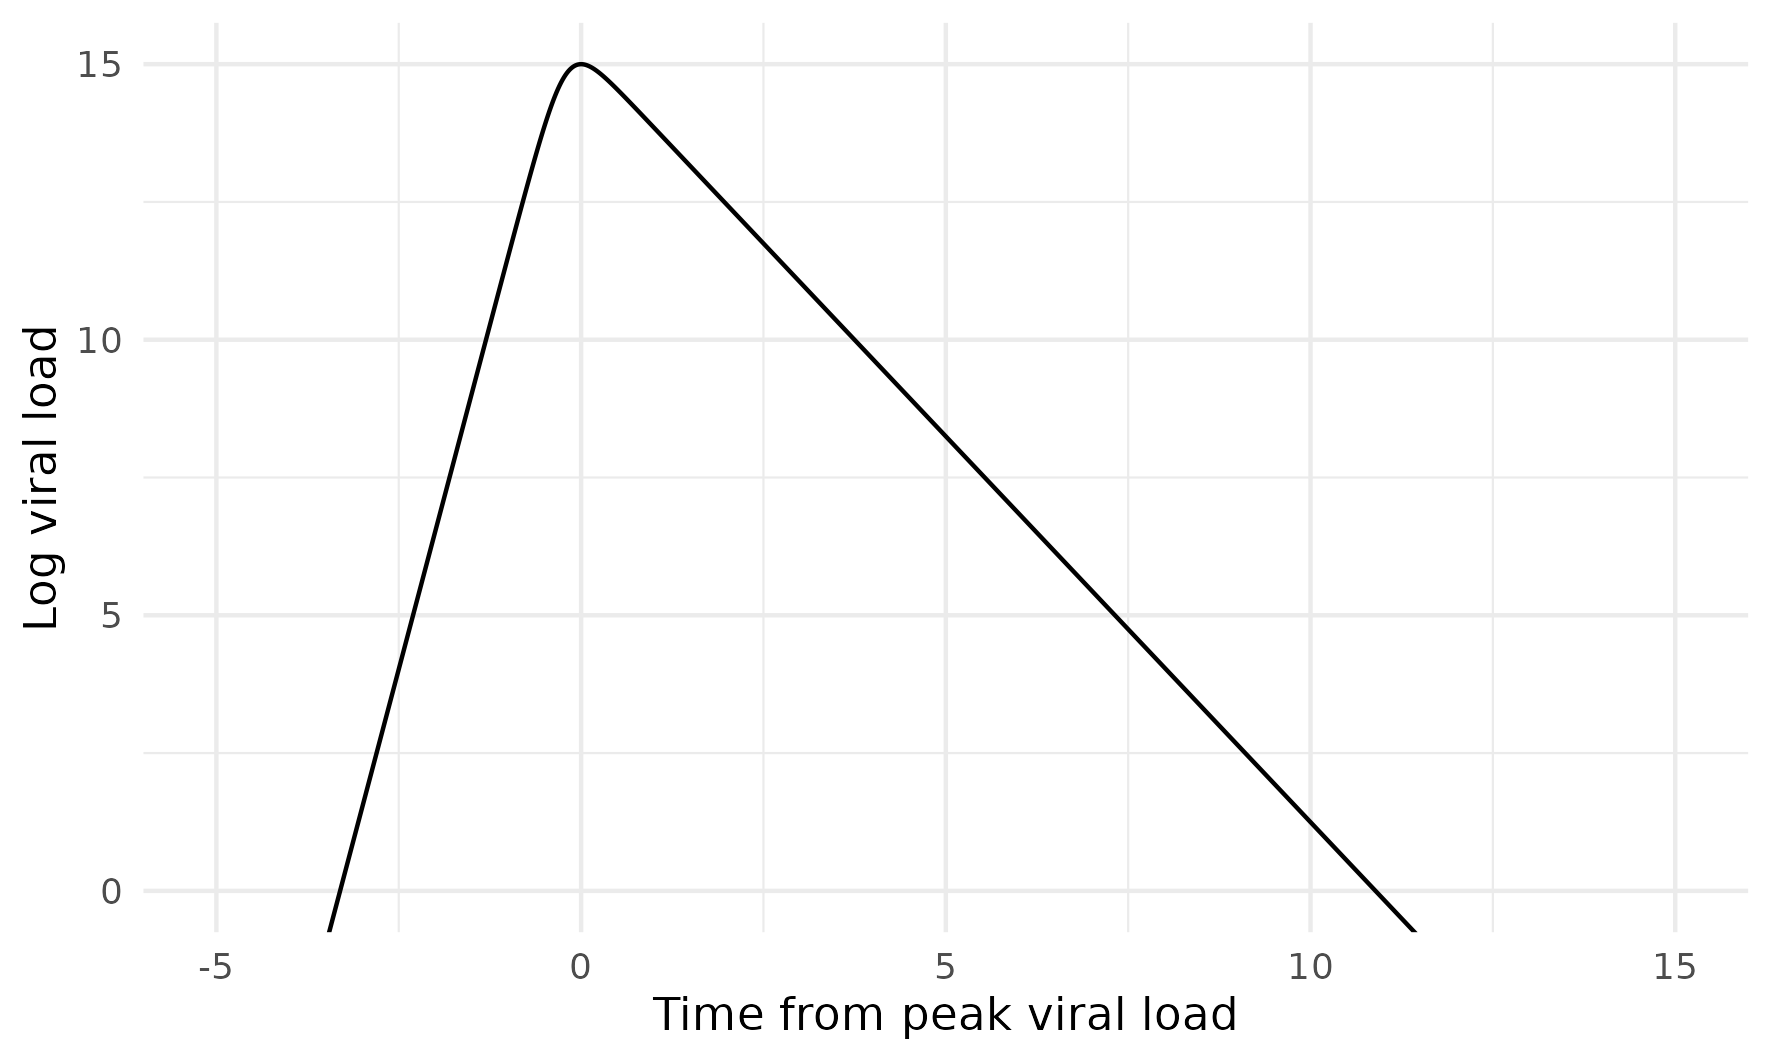
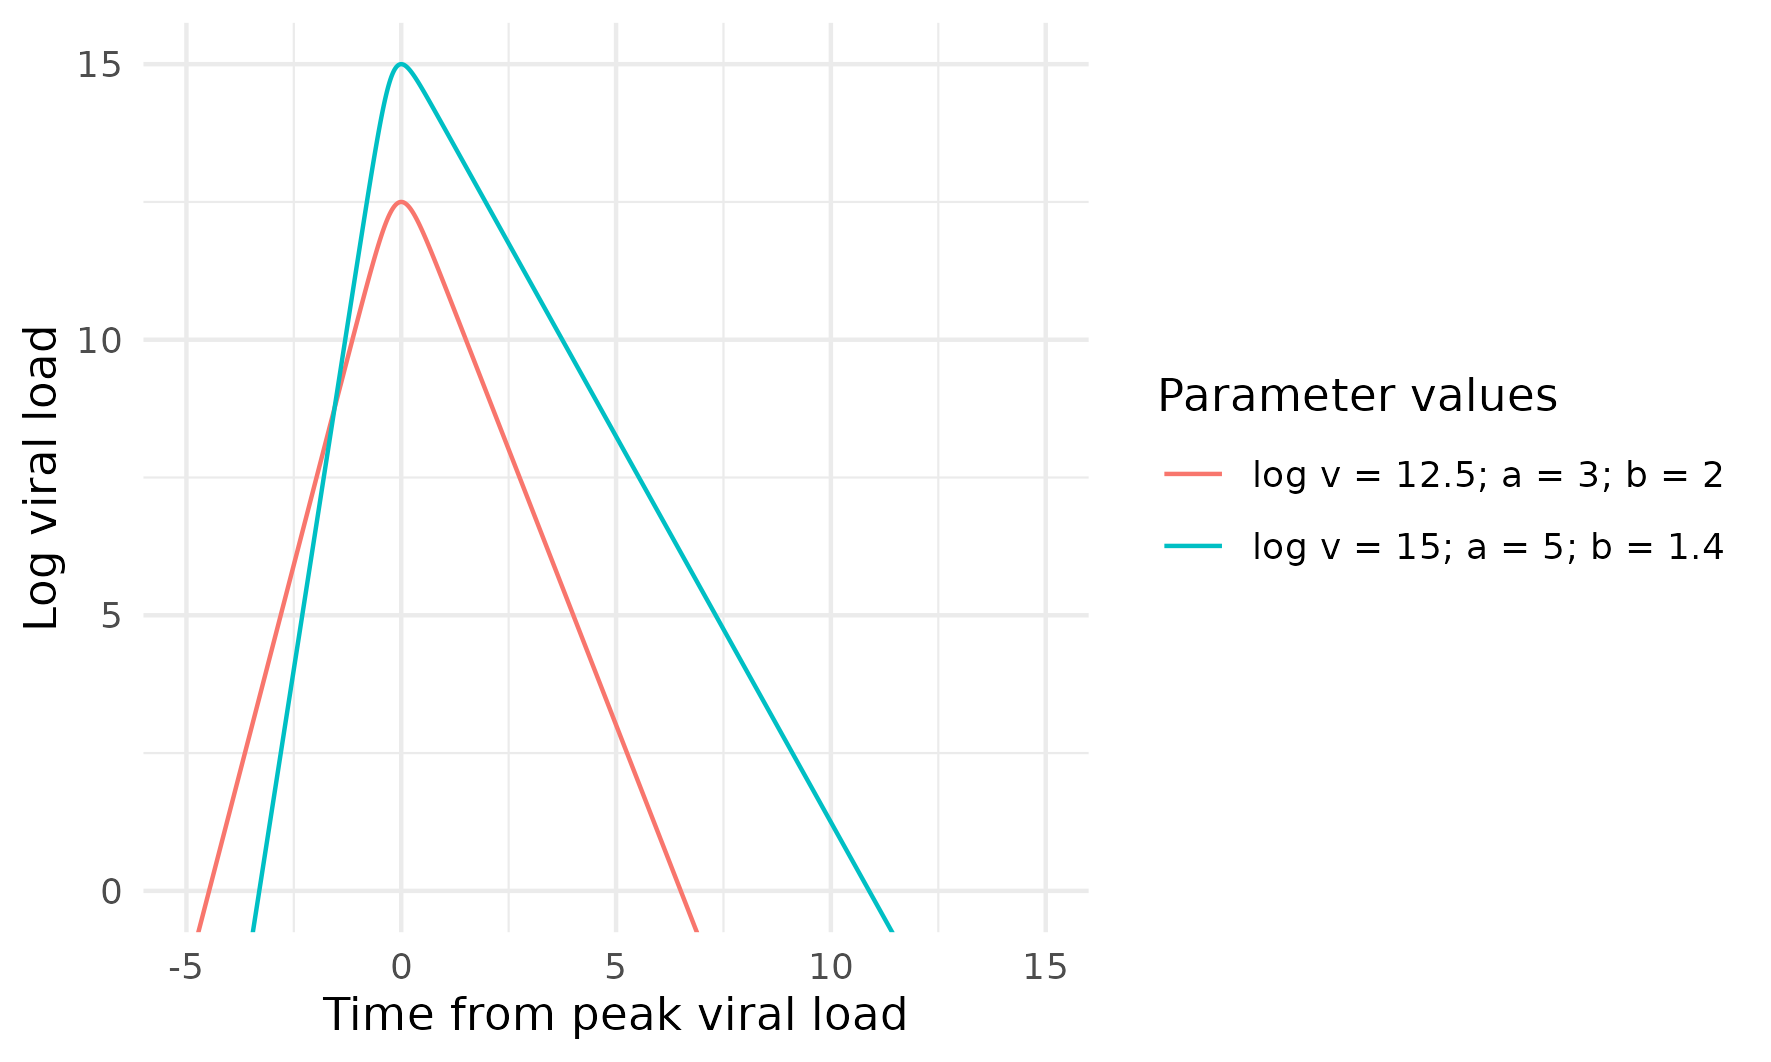
Show multiple parameter values in fig

diff --git a/ATACCC.tex b/ATACCC.tex
@@ -80,10 +80,15 @@ This happens quickly for realistic values of the parameters.
 Therefore, the log viral load is approximately piecewise linear (see \cref{ATACCC:fig:viral-load-model} for a representative viral load trajectory).
 $\vec{\phi}_i = (v_{\max,i}, a_i, b_i)^T$ are the random effects for individual $i$.
 $\tau_{\max,i}$ is inferred independently for each individual because the time from first test to peak is not a biological concept shared between individuals.
-\begin{figure}
+\begin{figure}[tbhp]
   \centering \includegraphics{ATACCC/typical_trajectory}
-  \caption[Example viral load model trajectory.]{Example viral load trajectory produced by \textcite{hakkiOnset}'s viral load model, using realistic parameter values. The increase in log viral load is approximately linear with a gradient of $a_i$, here 5. The decrease is also linear, with gradient $-b_i$, here -1.4. The peak is at time $\tau_{\max,i}$, here 0, and log viral load $\log v_{\max,i}$, here = 15. The smoothing (lack of linearity) near the peak is visible. \label{ATACCC:fig:viral-load-model}}
-  \todo[inline]{Add a few lines to example plot showing the effect of different parameters, move parameters to key}
+  \caption[Example viral load model trajectory.]{%
+    Example viral load trajectory produced by \textcite{hakkiOnset}'s viral load model, using realistic parameter values.
+    The increase and decrease in log viral load are approximately linear with a gradient of $a_i$ and $b_i$ respectively.
+    The peak is at time $\tau_{\max,i} = 0$ and log viral load $\log v_{\max,i}$.
+    The subscripts are omitted in the key for clarity.
+    The smoothing (lack of linearity) near the peak is visible. \label{ATACCC:fig:viral-load-model}
+  }
 \end{figure}
 
 PCR tests are noisy observations of the viral load.
